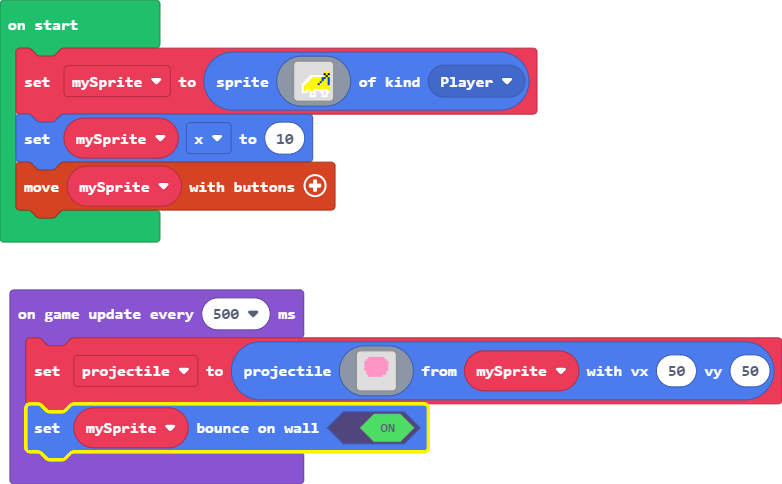
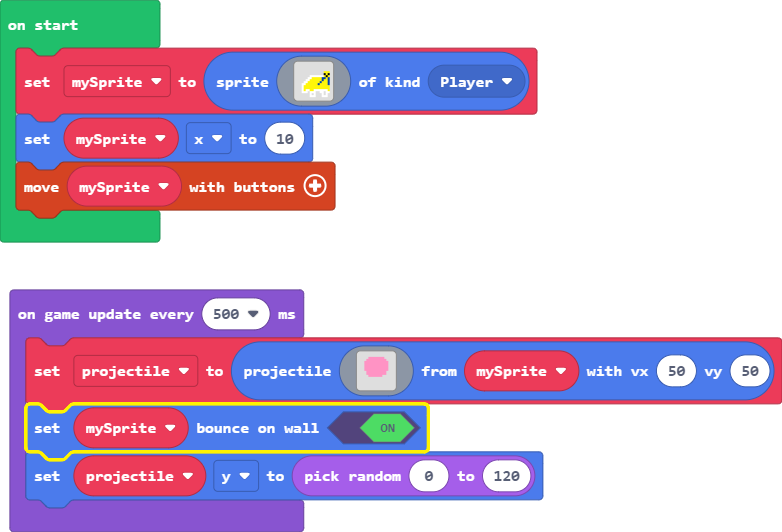
Update main.blocks, main.ts

diff --git a/main.ts b/main.ts
@@ -39,4 +39,5 @@ game.onUpdateInterval(500, function () {
         . . . . . . . . . . . . . . . . 
         `, mySprite, 50, 50)
     mySprite.setBounceOnWall(true)
+    projectile.y = randint(0, 120)
 })
